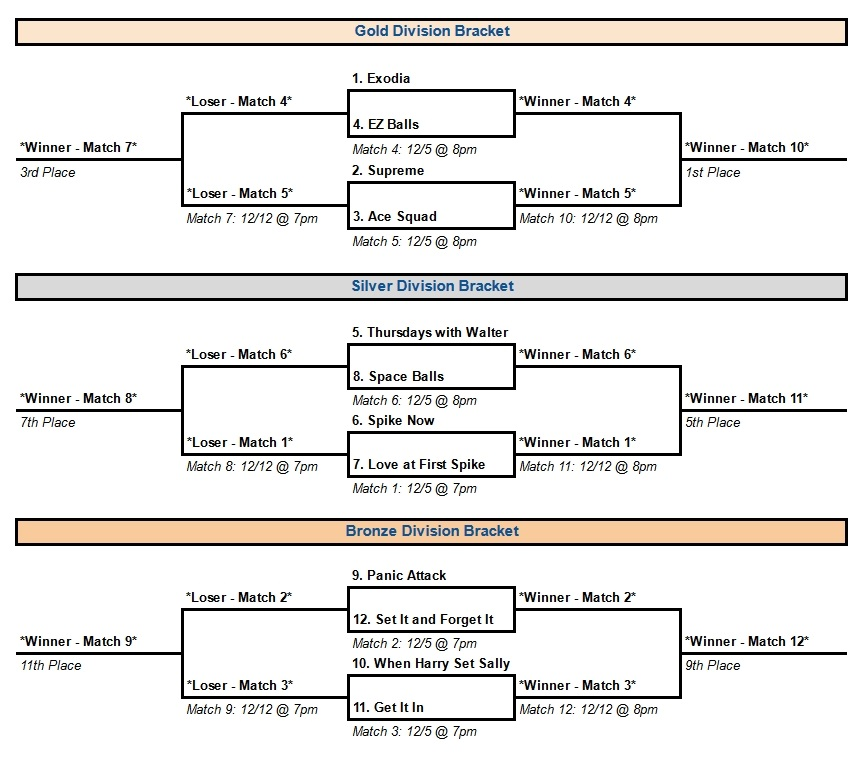
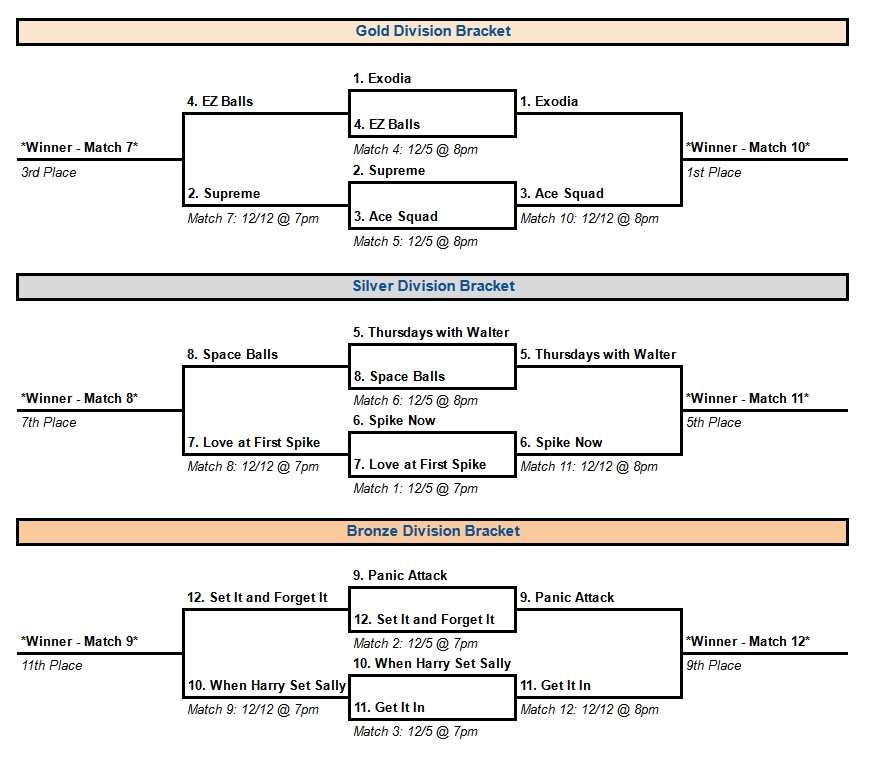
playoffs week 1

diff --git a/coed/dvb_fal24.html b/coed/dvb_fal24.html
@@ -1432,33 +1432,33 @@
         </tr>
         <tr>
           <td style="width:150px;text-align:left;border-top:solid;border-left:solid;border-right:1px solid black;background-color:GhostWhite;padding-left:3px;">Spike Now</td>
-          <td style="width:30px;text-align:center;border-top:solid;border-left:1px solid black;border-right:solid;background-color:GhostWhite;"></td>
+          <td style="width:30px;text-align:center;border-top:solid;border-left:1px solid black;border-right:solid;background-color:GhostWhite;">1</td>
         </tr>
         <tr>
           <td style="width:150px;text-align:left;border-bottom:1px solid black;border-left:solid;border-right:1px solid black;background-color:GhostWhite;padding-left:3px;">Love at First Spike</td>
-          <td style="width:30px;text-align:center;border-bottom:1px solid black;border-left:1px solid black;border-right:solid;background-color:GhostWhite;"></td>
+          <td style="width:30px;text-align:center;border-bottom:1px solid black;border-left:1px solid black;border-right:solid;background-color:GhostWhite;">0</td>
         </tr>
         <tr>
           <th colspan="2" style="text-align:center;border-top:solid;border-bottom:solid;border-left:solid;border-right:solid;background-color:GhostWhite;">Court 2</th>
         </tr>
         <tr>
           <td style="width:150px;text-align:left;border-top:solid;border-left:1px solid black;border-right:1px solid black;background-color:GhostWhite;padding-left:3px;">Panic Attack</td>
-          <td style="width:30px;text-align:center;border-top:solid;border-left:1px solid black;border-right:solid;background-color:GhostWhite;"></td>
+          <td style="width:30px;text-align:center;border-top:solid;border-left:1px solid black;border-right:solid;background-color:GhostWhite;">1</td>
         </tr>
         <tr>
           <td style="width:150px;text-align:left;border-bottom:1px solid black;border-left:1px solid black;border-right:1px solid black;background-color:GhostWhite;padding-left:3px;">Set It and Forget It</td>
-          <td style="width:30px;text-align:center;border-bottom:1px solid black;border-left:1px solid black;border-right:solid;background-color:GhostWhite;"></td>
+          <td style="width:30px;text-align:center;border-bottom:1px solid black;border-left:1px solid black;border-right:solid;background-color:GhostWhite;">0</td>
         </tr>
         <tr>
           <th colspan="2" style="text-align:center;border-top:solid;border-bottom:solid;border-left:solid;border-right:solid;background-color:GhostWhite;">Court 3</th>
         </tr>
         <tr>
           <td style="width:150px;text-align:left;border-top:solid;border-left:1px solid black;border-right:1px solid black;background-color:GhostWhite;padding-left:3px;">When Harry Set Sally</td>
-          <td style="width:30px;text-align:center;border-top:solid;border-left:1px solid black;border-right:solid;background-color:GhostWhite;"></td>
+          <td style="width:30px;text-align:center;border-top:solid;border-left:1px solid black;border-right:solid;background-color:GhostWhite;">0</td>
         </tr>
         <tr>
           <td style="width:150px;text-align:left;border-bottom:1px solid black;border-left:1px solid black;border-right:1px solid black;background-color:GhostWhite;padding-left:3px;">Get It In</td>
-          <td style="width:30px;text-align:center;border-bottom:1px solid black;border-left:1px solid black;border-right:solid;background-color:GhostWhite;"></td>
+          <td style="width:30px;text-align:center;border-bottom:1px solid black;border-left:1px solid black;border-right:solid;background-color:GhostWhite;">1</td>
         </tr>
         <tr>
           <th rowspan="9" style="text-align:center;border-top:solid;border-bottom:solid;border-left:solid;border-right:solid;background-color:LightGray;padding-left:5px;padding-right:5px;">8 PM</th>
@@ -1466,32 +1466,32 @@
         </tr>
         <tr>
           <td style="width:150px;text-align:left;border-top:solid;border-left:1px solid black;border-right:1px solid black;border-left:solid;background-color:LightGray;padding-left:3px;">Exodia</td>
-          <td style="width:30px;text-align:center;border-top:solid;border-left:1px solid black;border-right:solid;background-color:LightGray;"></td>
+          <td style="width:30px;text-align:center;border-top:solid;border-left:1px solid black;border-right:solid;background-color:LightGray;">1</td>
         </tr>
         <tr>
           <td style="width:150px;text-align:left;border-bottom:1px solid black;border-left:1px solid black;border-right:1px solid black;border-left:solid;background-color:LightGray;padding-left:3px;">EZ Balls</td>
-          <td style="width:30px;text-align:center;border-bottom:1px solid black;border-left:1px solid black;border-right:solid;background-color:LightGray;"></td>
+          <td style="width:30px;text-align:center;border-bottom:1px solid black;border-left:1px solid black;border-right:solid;background-color:LightGray;">0</td>
         </tr>
         <tr>
           <th colspan="2" style="text-align:center;border-top:solid;border-bottom:solid;border-left:solid;border-right:solid;background-color:LightGray;">Court 2</th>
         </tr>
         <tr>
           <td style="width:150px;text-align:left;border-top:solid;border-left:1px solid black;border-right:1px solid black;background-color:LightGray;padding-left:3px;">Supreme</td>
-          <td style="width:30px;text-align:center;border-top:solid;border-left:1px solid black;border-right:solid;background-color:LightGray;"></td>
+          <td style="width:30px;text-align:center;border-top:solid;border-left:1px solid black;border-right:solid;background-color:LightGray;">0</td>
         </tr>
         <tr>
           <td style="width:150px;text-align:left;border-bottom:1px solid black;border-left:1px solid black;border-right:1px solid black;background-color:LightGray;padding-left:3px;">Ace Squad</td>
-          <td style="width:30px;text-align:center;border-bottom:1px solid black;border-left:1px solid black;border-right:solid;background-color:LightGray;"></td>
+          <td style="width:30px;text-align:center;border-bottom:1px solid black;border-left:1px solid black;border-right:solid;background-color:LightGray;">1</td>
         </tr>
         <tr>
           <th colspan="2" style="text-align:center;border-top:solid;border-bottom:solid;border-left:solid;border-right:solid;background-color:LightGray;">Court 3</th>
         </tr>
         <tr>
           <td style="width:150px;text-align:left;border-top:solid;border-left:1px solid black;background-color:LightGray;padding-left:3px;">Thursdays with Walter</td>
-          <td style="width:30px;text-align:center;border-top:solid;border-left:1px solid black;border-right:solid;background-color:LightGray;"></td>
+          <td style="width:30px;text-align:center;border-top:solid;border-left:1px solid black;border-right:solid;background-color:LightGray;">1</td>
         </tr>
           <td style="width:150px;text-align:left;border-bottom:solid;border-left:1px solid black;background-color:LightGray;padding-left:3px;">Space Balls</td>
-          <td style="width:30px;text-align:center;border-bottom:solid;border-left:1px solid black;border-right:solid;background-color:LightGray;"></td>
+          <td style="width:30px;text-align:center;border-bottom:solid;border-left:1px solid black;border-right:solid;background-color:LightGray;">0</td>
         <tr>
         </tr>
       </table>
@@ -1507,33 +1507,33 @@
           <th colspan="2" style="text-align:center;border-top:solid;border-bottom:solid;border-left:solid;border-right:solid;background-color:GhostWhite;">Court 1 - 3rd Place</th>
         </tr>
         <tr>
-          <td style="width:150px;text-align:left;border-top:solid;border-left:solid;border-right:1px solid black;background-color:GhostWhite;padding-left:3px;">Loser - Match 4</td>
+          <td style="width:150px;text-align:left;border-top:solid;border-left:solid;border-right:1px solid black;background-color:GhostWhite;padding-left:3px;">EZ Balls</td>
           <td style="width:30px;text-align:center;border-top:solid;border-left:1px solid black;border-right:solid;background-color:GhostWhite;"></td>
         </tr>
         <tr>
-          <td style="width:150px;text-align:left;border-bottom:1px solid black;border-left:solid;border-right:1px solid black;background-color:GhostWhite;padding-left:3px;">Loser - Match 5</td>
+          <td style="width:150px;text-align:left;border-bottom:1px solid black;border-left:solid;border-right:1px solid black;background-color:GhostWhite;padding-left:3px;">Supreme</td>
           <td style="width:30px;text-align:center;border-bottom:1px solid black;border-left:1px solid black;border-right:solid;background-color:GhostWhite;"></td>
         </tr>
         <tr>
           <th colspan="2" style="text-align:center;border-top:solid;border-bottom:solid;border-left:solid;border-right:solid;background-color:GhostWhite;">Court 2 - 7th Place</th>
         </tr>
         <tr>
-          <td style="width:150px;text-align:left;border-top:solid;border-left:1px solid black;border-right:1px solid black;background-color:GhostWhite;padding-left:3px;">Loser - Match 6</td>
+          <td style="width:150px;text-align:left;border-top:solid;border-left:1px solid black;border-right:1px solid black;background-color:GhostWhite;padding-left:3px;">Space Balls</td>
           <td style="width:30px;text-align:center;border-top:solid;border-left:1px solid black;border-right:solid;background-color:GhostWhite;"></td>
         </tr>
         <tr>
-          <td style="width:150px;text-align:left;border-bottom:1px solid black;border-left:1px solid black;border-right:1px solid black;background-color:GhostWhite;padding-left:3px;">Loser - Match 1</td>
+          <td style="width:150px;text-align:left;border-bottom:1px solid black;border-left:1px solid black;border-right:1px solid black;background-color:GhostWhite;padding-left:3px;">Love at First Spike</td>
           <td style="width:30px;text-align:center;border-bottom:1px solid black;border-left:1px solid black;border-right:solid;background-color:GhostWhite;"></td>
         </tr>
         <tr>
           <th colspan="2" style="text-align:center;border-top:solid;border-bottom:solid;border-left:solid;border-right:solid;background-color:GhostWhite;">Court 3 - 11th Place</th>
         </tr>
         <tr>
-          <td style="width:150px;text-align:left;border-top:solid;border-left:1px solid black;border-right:1px solid black;background-color:GhostWhite;padding-left:3px;">Loser - Match 2</td>
+          <td style="width:150px;text-align:left;border-top:solid;border-left:1px solid black;border-right:1px solid black;background-color:GhostWhite;padding-left:3px;">Set It and Forget It</td>
           <td style="width:30px;text-align:center;border-top:solid;border-left:1px solid black;border-right:solid;background-color:GhostWhite;"></td>
         </tr>
         <tr>
-          <td style="width:150px;text-align:left;border-bottom:1px solid black;border-left:1px solid black;border-right:1px solid black;background-color:GhostWhite;padding-left:3px;">Loser - Match 3</td>
+          <td style="width:150px;text-align:left;border-bottom:1px solid black;border-left:1px solid black;border-right:1px solid black;background-color:GhostWhite;padding-left:3px;">When Harry Set Sally</td>
           <td style="width:30px;text-align:center;border-bottom:1px solid black;border-left:1px solid black;border-right:solid;background-color:GhostWhite;"></td>
         </tr>
         <tr>
@@ -1541,32 +1541,32 @@
           <th colspan="2" style="text-align:center;border-top:solid;border-bottom:solid;border-left:solid;border-right:solid;background-color:#F2C891;">Court 1 - 1st Place</th>
         </tr>
         <tr>
-          <td style="width:150px;text-align:left;border-top:solid;border-left:1px solid black;border-right:1px solid black;border-left:solid;background-color:LightGray;padding-left:3px;">Winner - Match 4</td>
+          <td style="width:150px;text-align:left;border-top:solid;border-left:1px solid black;border-right:1px solid black;border-left:solid;background-color:LightGray;padding-left:3px;">Exodia</td>
           <td style="width:30px;text-align:center;border-top:solid;border-left:1px solid black;border-right:solid;background-color:LightGray;"></td>
         </tr>
         <tr>
-          <td style="width:150px;text-align:left;border-bottom:1px solid black;border-left:1px solid black;border-right:1px solid black;border-left:solid;background-color:LightGray;padding-left:3px;">Winner - Match 5</td>
+          <td style="width:150px;text-align:left;border-bottom:1px solid black;border-left:1px solid black;border-right:1px solid black;border-left:solid;background-color:LightGray;padding-left:3px;">Ace Squad</td>
           <td style="width:30px;text-align:center;border-bottom:1px solid black;border-left:1px solid black;border-right:solid;background-color:LightGray;"></td>
         </tr>
         <tr>
           <th colspan="2" style="text-align:center;border-top:solid;border-bottom:solid;border-left:solid;border-right:solid;background-color:#DBE2E9;">Court 2 - 5th Place</th>
         </tr>
         <tr>
-          <td style="width:150px;text-align:left;border-top:solid;border-left:1px solid black;border-right:1px solid black;background-color:LightGray;padding-left:3px;">Winner - Match 6</td>
+          <td style="width:150px;text-align:left;border-top:solid;border-left:1px solid black;border-right:1px solid black;background-color:LightGray;padding-left:3px;">Thursdays with Walter</td>
           <td style="width:30px;text-align:center;border-top:solid;border-left:1px solid black;border-right:solid;background-color:LightGray;"></td>
         </tr>
         <tr>
-          <td style="width:150px;text-align:left;border-bottom:1px solid black;border-left:1px solid black;border-right:1px solid black;background-color:LightGray;padding-left:3px;">Winner - Match 1</td>
+          <td style="width:150px;text-align:left;border-bottom:1px solid black;border-left:1px solid black;border-right:1px solid black;background-color:LightGray;padding-left:3px;">Spike Now</td>
           <td style="width:30px;text-align:center;border-bottom:1px solid black;border-left:1px solid black;border-right:solid;background-color:LightGray;"></td>
         </tr>
         <tr>
           <th colspan="2" style="text-align:center;border-top:solid;border-bottom:solid;border-left:solid;border-right:solid;background-color:#B77729;">Court 3 - 9th Place</th>
         </tr>
         <tr>
-          <td style="width:150px;text-align:left;border-top:solid;border-left:1px solid black;background-color:LightGray;padding-left:3px;">Winner - Match 2</td>
+          <td style="width:150px;text-align:left;border-top:solid;border-left:1px solid black;background-color:LightGray;padding-left:3px;">Panic Attack</td>
           <td style="width:30px;text-align:center;border-top:solid;border-left:1px solid black;border-right:solid;background-color:LightGray;"></td>
         </tr>
-          <td style="width:150px;text-align:left;border-bottom:solid;border-left:1px solid black;background-color:LightGray;padding-left:3px;">Winner - Match 3</td>
+          <td style="width:150px;text-align:left;border-bottom:solid;border-left:1px solid black;background-color:LightGray;padding-left:3px;">Get It In</td>
           <td style="width:30px;text-align:center;border-bottom:solid;border-left:1px solid black;border-right:solid;background-color:LightGray;"></td>
         <tr>
         </tr>
